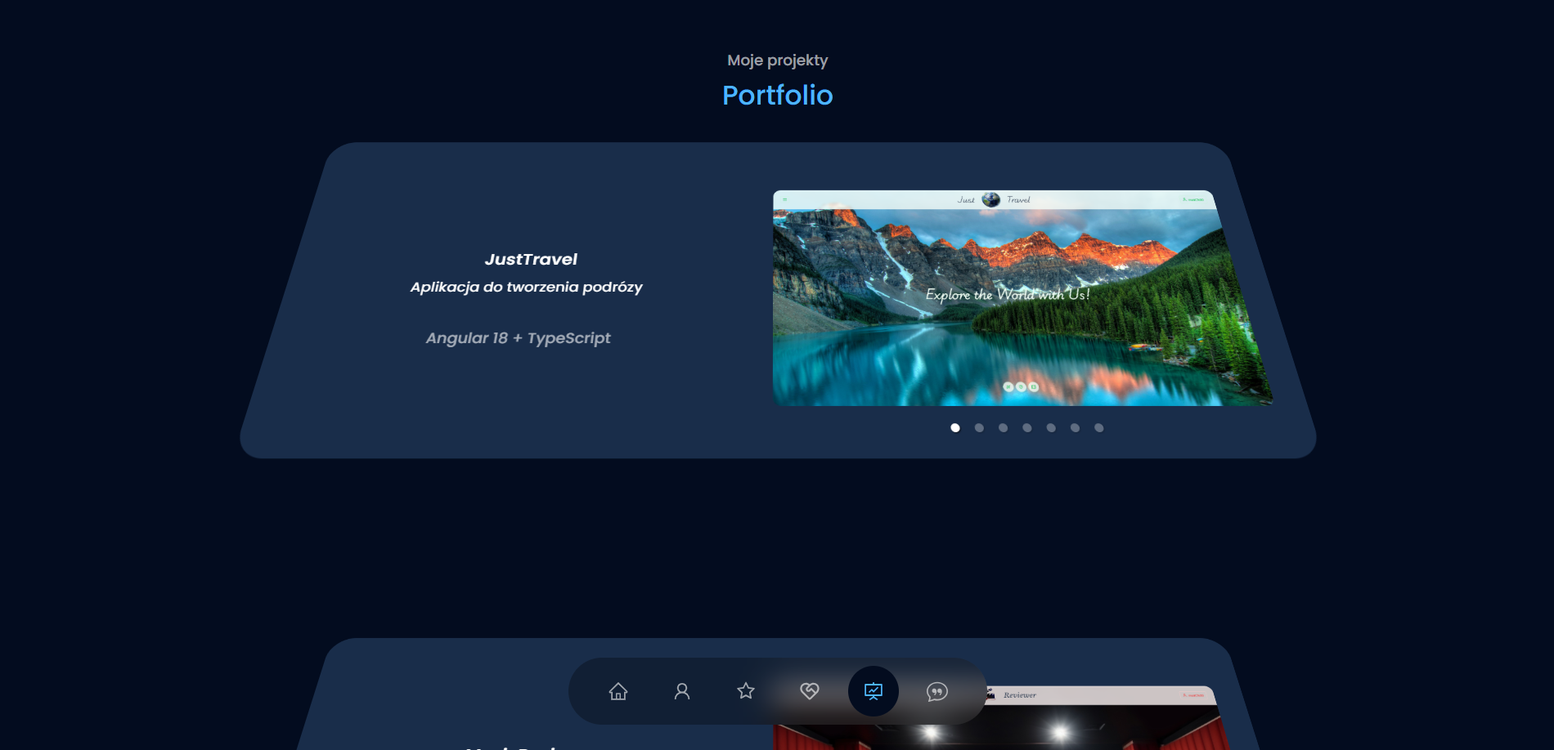
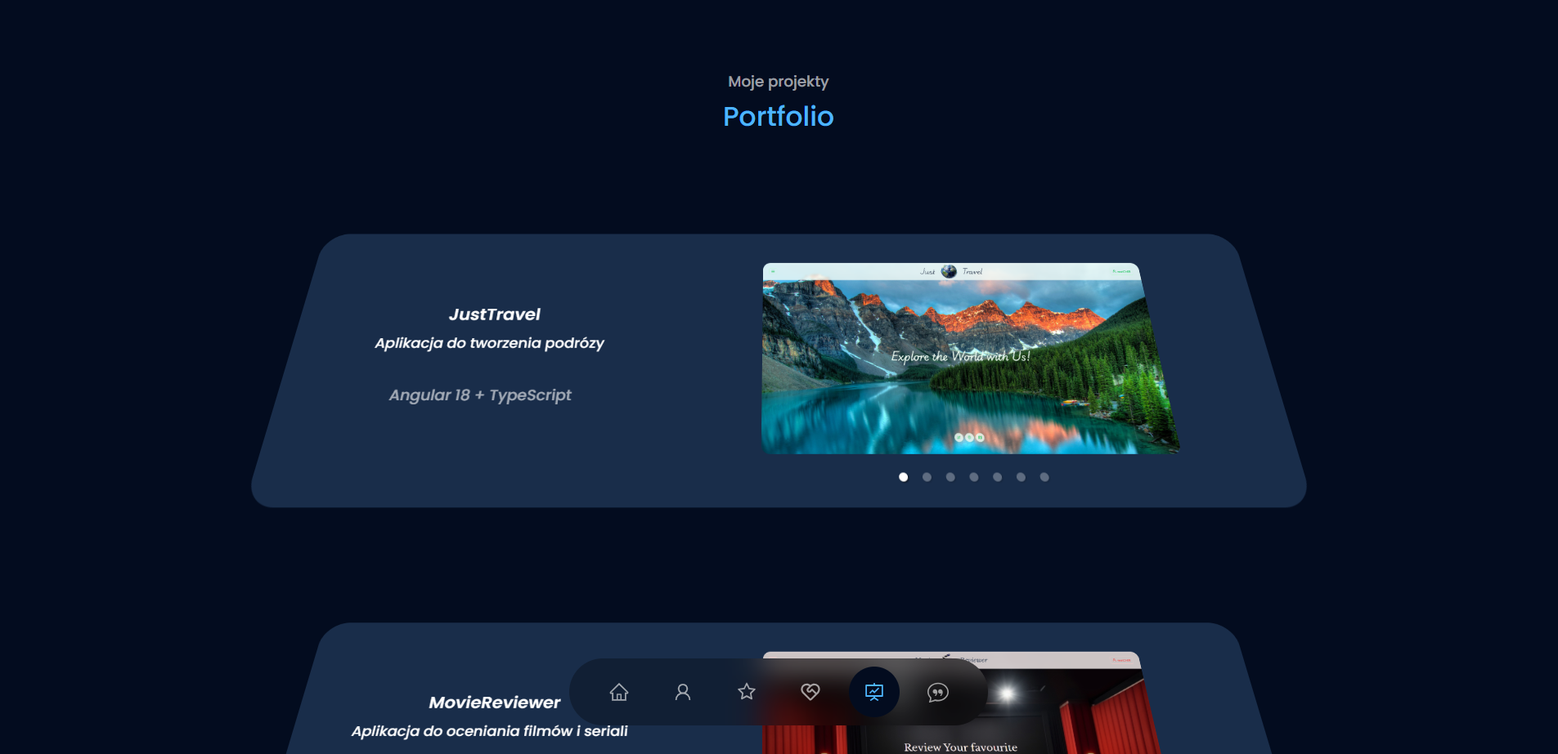
small changes, auto deploy

Changed region(s): [[0.1553, 0.061, 0.8695, 0.671], [0.1863, 0.8235, 0.8384, 1.0], [0.2484, 0.5185, 0.3726, 0.549]]

diff --git a/docs/v1/static/css/main.663a6278.css b/docs/v1/static/css/main.663a6278.css
@@ -1,0 +1,2 @@
+@import url(https://fonts.googleapis.com/css2?family=Poppins:wght@300;400;500;600&display=swap);:root{--color-bg:#030c1f;--color-bg-variant:#192d4a;--color-primary:#4db5ff;--color-primary-variant:#4db5ff66;--color-secondary:#4db5ff0d;--color-white:#fff;--color-light:#fff9;--container-width-lg:75%;--container-width-md:85%;--container-width-sm:90%;--transition:all 400ms ease;--ff:"Poppins",sans-serif;--fw:500}*,:after,:before{border:0;box-sizing:border-box;list-style:none;margin:0;outline:0;padding:0;text-decoration:none}html{scroll-behavior:smooth}::-webkit-scrollbar{display:none}body{-webkit-font-smoothing:antialiased;-moz-osx-font-smoothing:grayscale;background:#030c1f;background:var(--color-bg);color:#fff;color:var(--color-white);font-family:Poppins,sans-serif;font-family:var(--ff);font-weight:500;font-weight:var(--fw);line-height:1.7}a,button,input,select,textarea{-webkit-tap-highlight-color:transparent}h1,h2,h3,h4,h5{font-weight:500}header{min-height:100vh}section>h2{color:var(--color-primary);margin-bottom:3rem;text-align:center}section>h5{color:var(--color-light);text-align:center}.text-light{color:var(--color-light)!important}a{color:var(--color-primary);transition:var(--transition)}a:hover{color:var(--color-white)}.button{border:1px solid var(--color-primary);border-radius:.4rem;color:var(--color-primary);cursor:pointer;display:inline-block;padding:.7em 1.2em;transition:var(--transition);white-space:nowrap}.button:hover{background:var(--color-white);border-color:#0000;color:var(--color-bg)}.button-primary{background:var(--color-primary);color:var(--color-bg)}img{display:block;object-fit:cover;width:100%}.container{margin:0 auto;width:var(--container-width-lg)}section{font-size:1.1rem;padding:3em 0 12em}@media (max-width:1200px){section{padding:2em 0 18em}}@media (max-width:992px){.container{width:var(--container-width-md)}section{padding:2em 0 12em}}@media (max-width:768px){section{padding:2em 0 6em}}@media (max-width:576px){.container{width:var(--container-width-sm)}section{padding:1em 0 2em}}@property --rotate{syntax:"<angle>";initial-value:150deg;inherits:false}@keyframes spin{0%{--rotate:0deg}to{--rotate:360deg}}.header-content h4{color:var(--color-primary)}.me-img{border-radius:1.5rem;overflow:hidden;transform:rotate(-3deg);transition:var(--transition);width:100%}.me-img:hover{transform:rotate(0)}.me:after{animation:spin 2.5s linear infinite;background-image:linear-gradient(var(--rotate),#4db5ff,#fff9 43%,#4db5ff66);content:"";filter:blur(3.5vw);filter:blur(calc(var(--portrait-height)/8));height:100%;opacity:1;position:absolute;transform:scale(.9);transition:opacity .7s;width:100%;z-index:-1}:root{--portrait-width:calc(var(--portrait-height)/1.5);--portrait-height:28vw}header{align-items:center;display:flex;justify-content:center;overflow:hidden;padding:3rem 0 12rem}.header-container{grid-gap:3rem;display:grid;font-size:1.3rem;gap:3rem;grid-template-columns:1fr 1fr}.header-container,.header-content{align-items:center;position:relative;text-align:center;width:100%}.header-content{display:flex;flex-direction:column;margin-top:15vh}.me{align-items:center;display:flex;justify-content:center;margin:0 auto 2rem;max-width:400px;position:relative;width:80%}@media (max-width:992px){.container{width:var(--container-width-md)}.me{margin:0 auto 3rem;max-width:350px;width:50vw}}@media (max-width:768px){.header-container{grid-template-columns:1fr}.header-content{margin-top:5vh;width:100%}}@media (max-width:576px){:root{--portrait-height:60vw}header{padding:5rem 0 2rem}.me{margin:0 auto 1.5rem;max-width:300px;width:60vw}}.actions{display:flex;gap:1.5rem;justify-content:center;margin-top:2.5rem}.socials{align-items:center;display:flex;flex-direction:column;gap:1rem;position:absolute;right:4vw;top:0}.socials a{font-size:1.4em}@media (max-width:768px){.socials{display:none}}.about-container{align-items:center;display:flex;flex-direction:column}.about-container p{color:var(--color-light);margin:2rem;text-align:center}.about-card{background:var(--color-bg-variant);border:1px solid #0000;border-radius:1rem;padding:2rem;text-align:center;transition:var(--transition)}.about-card:hover{background:#0000;border-color:var(--color-primary-variant);cursor:default}.about-card h5{font-size:.9rem;margin-bottom:1rem}.about-card small{color:var(--color-light);font-size:.7rem}.about-icon{color:var(--color-primary);font-size:1.4rem;margin-bottom:1rem}.technologies{font-size:1.3rem}.about-cards{grid-gap:3rem;display:grid;gap:3rem;grid-template-columns:repeat(3,1fr);width:80%}@media (max-width:1200px){.about-cards{width:95%}}@media (max-width:992px){.about-cards{gap:2rem}}@media (max-width:768px){.about-cards{gap:3rem;grid-template-columns:repeat(1,1fr);width:20rem}}@media (max-width:576px){.about-cards{gap:2rem;width:15rem}}.experience-container>div h3{color:var(--color-primary);margin-bottom:2rem;text-align:center;white-space:nowrap}.experience-details{break-inside:avoid-column;display:flex;font-size:.9rem;gap:.5rem;margin-bottom:1rem}.experience-details-icon{color:var(--color-primary);margin-top:6px;min-width:1rem!important}.experience-container{grid-gap:2rem;display:grid;gap:2rem;grid-template-columns:1fr 1fr 1fr}.experience-container>div{background:var(--color-bg-variant);border:1px solid #0000;border-radius:2rem;margin:0;padding:2rem;transition:var(--transition);width:100%}.experience-container>div:hover{background:#0000;border-color:var(--color-primary-variant);cursor:default}.experience-content{align-items:center;display:flex;flex-direction:column}@media (max-width:992px){.experience-container{grid-template-columns:1fr}.experience-container>div{margin:0 auto;width:50%}}@media (max-width:768px){.experience-container>div{padding:1rem;width:70%}.experience-content{columns:10rem;padding:0 1rem}}@media (max-width:576px){.experience-container{gap:1rem}.experience-container>div{width:90%}.experience-content{columns:12rem}}.service{background:var(--color-bg-variant);border:1px solid var(--color-primary);border-radius:3rem 0 3rem 0;transition:var(--transition)}.service:hover{background:#0000;border-color:var(--color-primary);cursor:default}.service-head{background:var(--color-primary);border-radius:3rem 0 3rem 0;box-shadow:0 2rem 1rem #0000001a;padding:1.5rem}.service-head h3{color:var(--color-bg);font-size:1.1rem;text-align:center}.service-list{align-items:center;display:flex;flex-direction:column;padding:2rem}.service-list li{display:flex;gap:1rem;margin-bottom:.8rem}.service-list-icon{color:var(--color-primary);margin-top:2px;min-width:1rem}.service-list p{font-size:.9rem}.services-container{grid-gap:3rem;display:grid;gap:3rem;grid-template-columns:repeat(3,1fr)}@media (max-width:992px){.services-container{gap:2rem;grid-template-columns:1fr 1fr}.services-container>.service:nth-child(3){grid-column:1/span 2}}@media (max-width:576px){.services-container{gap:1rem;grid-template-columns:1fr}.services-container>.service:nth-child(3){grid-column:auto}}.carousel{align-items:center;display:flex;justify-content:center}.carousel.carousel-slider{display:flex;justify-content:center;padding:0 0 3rem}.carousel.carousel-slider .control-arrow{display:none}.carousel .control-dots .dot{height:.6rem!important;width:.6rem!important}.portfolio-item-desktop{display:flex;flex-direction:column}.portfolio-item h3{text-align:center}.portfolio-item h4{color:var(--color-light);text-align:center}.portfolio-image-container{border-radius:.6rem;margin:0 3rem}.portfolio-image{-webkit-tap-highlight-color:transparent;-webkit-touch-callout:none;border-radius:.6rem;right:0;-webkit-user-select:none;user-select:none}.portfolio-carousel-mobile{width:15rem}.portfolio-carousel-desktop{width:35rem}.portfolio-container{grid-gap:3rem;display:grid;gap:3rem;grid-template-columns:1fr}.portfolio-item{align-items:center;background:var(--color-bg-variant);border:1px solid #0000;border-radius:2rem;display:grid;grid-template-columns:40% 60%;padding:2.5rem 2.5rem .5rem;transform:perspective(750px) translateZ(-100px) rotateX(25deg) scaleX(.95);transition:var(--transition)}.portfolio-item:hover{background:var(--color-secondary);border-color:var(--color-primary-variant);transform:translate3d(0,40px,-120px)}.portfolio-description{align-items:center;display:flex;flex-direction:column;gap:2rem;justify-content:center;margin-top:-3rem;width:90%}@media (max-width:1200px){.portfolio-carousel-desktop{width:30rem}}@media (max-width:992px){.portfolio-carousel-mobile{width:15rem}.portfolio-item{display:flex;flex-direction:column}.portfolio-description{margin-bottom:2rem;margin-top:0}}@media (max-width:768px){.portfolio-carousel-mobile{width:40vw}.portfolio-carousel-desktop{width:60vw}}.carousel .control-arrow,.carousel.carousel-slider .control-arrow{background:none;border:0;cursor:pointer;filter:alpha(opacity=40);font-size:32px;opacity:.4;position:absolute;top:20px;transition:all .25s ease-in;z-index:2}.carousel .control-arrow:focus,.carousel .control-arrow:hover{filter:alpha(opacity=100);opacity:1}.carousel .control-arrow:before,.carousel.carousel-slider .control-arrow:before{border-bottom:8px solid #0000;border-top:8px solid #0000;content:"";display:inline-block;margin:0 5px}.carousel .control-disabled.control-arrow{cursor:inherit;display:none;filter:alpha(opacity=0);opacity:0}.carousel .control-prev.control-arrow{left:0}.carousel .control-prev.control-arrow:before{border-right:8px solid #fff}.carousel .control-next.control-arrow{right:0}.carousel .control-next.control-arrow:before{border-left:8px solid #fff}.carousel-root{outline:none}.carousel{position:relative;width:100%}.carousel *{box-sizing:border-box}.carousel img{display:inline-block;pointer-events:none;width:100%}.carousel .carousel{position:relative}.carousel .control-arrow{background:none;border:0;font-size:18px;margin-top:-13px;outline:0;top:50%}.carousel .thumbs-wrapper{margin:20px;overflow:hidden}.carousel .thumbs{list-style:none;position:relative;transform:translateZ(0);transition:all .15s ease-in;white-space:nowrap}.carousel .thumb{border:3px solid #fff;display:inline-block;margin-right:6px;overflow:hidden;padding:2px;transition:border .15s ease-in;white-space:nowrap}.carousel .thumb:focus{border:3px solid #ccc;outline:none}.carousel .thumb.selected,.carousel .thumb:hover{border:3px solid #333}.carousel .thumb img{vertical-align:top}.carousel.carousel-slider{margin:0;overflow:hidden;position:relative}.carousel.carousel-slider .control-arrow{bottom:0;color:#fff;font-size:26px;margin-top:0;padding:5px;top:0}.carousel.carousel-slider .control-arrow:hover{background:#0003}.carousel .slider-wrapper{margin:auto;overflow:hidden;transition:height .15s ease-in;width:100%}.carousel .slider-wrapper.axis-horizontal .slider{-ms-box-orient:horizontal;display:-moz-flex;display:flex}.carousel .slider-wrapper.axis-horizontal .slider .slide{flex-direction:column;flex-flow:column}.carousel .slider-wrapper.axis-vertical{-ms-box-orient:horizontal;display:-moz-flex;display:flex}.carousel .slider-wrapper.axis-vertical .slider{flex-direction:column}.carousel .slider{list-style:none;margin:0;padding:0;position:relative;width:100%}.carousel .slider.animated{transition:all .35s ease-in-out}.carousel .slide{margin:0;min-width:100%;position:relative;text-align:center}.carousel .slide img{border:0;vertical-align:top;width:100%}.carousel .slide iframe{border:0;display:inline-block;margin:0 40px 40px;width:calc(100% - 80px)}.carousel .slide .legend{background:#000;border-radius:10px;bottom:40px;color:#fff;font-size:12px;left:50%;margin-left:-45%;opacity:.25;padding:10px;position:absolute;text-align:center;transition:all .5s ease-in-out;transition:opacity .35s ease-in-out;width:90%}.carousel .control-dots{bottom:0;margin:10px 0;padding:0;position:absolute;text-align:center;width:100%;z-index:1}@media (min-width:960px){.carousel .control-dots{bottom:0}}.carousel .control-dots .dot{background:#fff;border-radius:50%;box-shadow:1px 1px 2px #000000e6;cursor:pointer;display:inline-block;filter:alpha(opacity=30);height:8px;margin:0 8px;opacity:.3;transition:opacity .25s ease-in;width:8px}.carousel .control-dots .dot.selected,.carousel .control-dots .dot:hover{filter:alpha(opacity=100);opacity:1}.carousel .carousel-status{color:#fff;font-size:10px;padding:5px;position:absolute;right:0;text-shadow:1px 1px 1px #000000e6;top:0}.carousel:hover .slide .legend{opacity:1}.contact-container{display:flex;justify-content:center;width:80%}.contact-option a{display:inline-block;font-size:.8rem;margin-top:.5rem}.contact-option-icon{font-size:1.5rem;margin-bottom:.5rem}.contact-options{grid-gap:6rem;display:grid;gap:6rem;grid-template-columns:1fr 1fr;width:auto}.contact-option{background:var(--color-bg-variant);border:1px solid #0000;border-radius:1rem;display:block;margin-bottom:0;padding:2rem;text-align:center;transition:var(--transition);width:auto}.contact-option:hover{background:#0000;border-color:var(--color-primary-variant)}@media (max-width:768px){.contact-options{gap:2rem}}@media (max-width:576px){.contact-options{gap:2rem;grid-template-columns:1fr;width:var(--container-width-sm)}.contact-option{display:table;margin-bottom:2em;width:100%}}nav{-webkit-backdrop-filter:blur(15px);backdrop-filter:blur(15px);background-color:#0000004d;border-radius:3rem;bottom:2rem;display:flex;gap:.8rem;left:50%;padding:.5rem 1.5rem;position:fixed;transform:translateX(-50%);z-index:2}nav a.active{background:var(--color-bg);color:var(--color-primary)}nav a{background:#0000;border-radius:50%;color:var(--color-light);display:flex;font-size:1.3rem;padding:.9rem}nav a:hover{background:#0000004d}@media (max-width:576px){nav a{font-size:clamp(1.1rem,.4rem + 4vw,3rem);padding:clamp(.4em,.2em + 2vw,1.5em)}}footer{background:var(--color-primary);font-size:.9rem;margin-top:7rem;padding:3rem 0;text-align:center}footer a{color:var(--color-bg)}.footer-logo{display:block;font-size:2rem;font-weight:500;margin-bottom:2rem}.footer-socials a{background:var(--color-bg);border:1px solid #0000;border-radius:.7rem;color:var(--color-white);display:flex;font-size:2rem;padding:.8rem}.footer-socials a:hover{background:#0000;border-color:var(--color-bg);color:var(--color-bg)}.permalinks{flex-wrap:wrap;gap:2rem;margin:0 auto 3rem}.footer-socials,.permalinks{display:flex;justify-content:center}.footer-socials{gap:1rem;margin-bottom:3rem}.footer-copyright{color:var(--color-bg);margin-bottom:4rem}@media (max-width:768px){.footer-socials{margin-bottom:1rem}}@media (max-width:576px){.permalinks{flex-direction:column;gap:1.5rem}.footer-socials{margin-bottom:2rem}.footer-copyright{padding-bottom:4rem}}
+/*# sourceMappingURL=main.663a6278.css.map*/

diff --git a/gui (React 18) v1/build/static/css/main.663a6278.css b/gui (React 18) v1/build/static/css/main.663a6278.css
@@ -1,0 +1,2 @@
+@import url(https://fonts.googleapis.com/css2?family=Poppins:wght@300;400;500;600&display=swap);:root{--color-bg:#030c1f;--color-bg-variant:#192d4a;--color-primary:#4db5ff;--color-primary-variant:#4db5ff66;--color-secondary:#4db5ff0d;--color-white:#fff;--color-light:#fff9;--container-width-lg:75%;--container-width-md:85%;--container-width-sm:90%;--transition:all 400ms ease;--ff:"Poppins",sans-serif;--fw:500}*,:after,:before{border:0;box-sizing:border-box;list-style:none;margin:0;outline:0;padding:0;text-decoration:none}html{scroll-behavior:smooth}::-webkit-scrollbar{display:none}body{-webkit-font-smoothing:antialiased;-moz-osx-font-smoothing:grayscale;background:#030c1f;background:var(--color-bg);color:#fff;color:var(--color-white);font-family:Poppins,sans-serif;font-family:var(--ff);font-weight:500;font-weight:var(--fw);line-height:1.7}a,button,input,select,textarea{-webkit-tap-highlight-color:transparent}h1,h2,h3,h4,h5{font-weight:500}header{min-height:100vh}section>h2{color:var(--color-primary);margin-bottom:3rem;text-align:center}section>h5{color:var(--color-light);text-align:center}.text-light{color:var(--color-light)!important}a{color:var(--color-primary);transition:var(--transition)}a:hover{color:var(--color-white)}.button{border:1px solid var(--color-primary);border-radius:.4rem;color:var(--color-primary);cursor:pointer;display:inline-block;padding:.7em 1.2em;transition:var(--transition);white-space:nowrap}.button:hover{background:var(--color-white);border-color:#0000;color:var(--color-bg)}.button-primary{background:var(--color-primary);color:var(--color-bg)}img{display:block;object-fit:cover;width:100%}.container{margin:0 auto;width:var(--container-width-lg)}section{font-size:1.1rem;padding:3em 0 12em}@media (max-width:1200px){section{padding:2em 0 18em}}@media (max-width:992px){.container{width:var(--container-width-md)}section{padding:2em 0 12em}}@media (max-width:768px){section{padding:2em 0 6em}}@media (max-width:576px){.container{width:var(--container-width-sm)}section{padding:1em 0 2em}}@property --rotate{syntax:"<angle>";initial-value:150deg;inherits:false}@keyframes spin{0%{--rotate:0deg}to{--rotate:360deg}}.header-content h4{color:var(--color-primary)}.me-img{border-radius:1.5rem;overflow:hidden;transform:rotate(-3deg);transition:var(--transition);width:100%}.me-img:hover{transform:rotate(0)}.me:after{animation:spin 2.5s linear infinite;background-image:linear-gradient(var(--rotate),#4db5ff,#fff9 43%,#4db5ff66);content:"";filter:blur(3.5vw);filter:blur(calc(var(--portrait-height)/8));height:100%;opacity:1;position:absolute;transform:scale(.9);transition:opacity .7s;width:100%;z-index:-1}:root{--portrait-width:calc(var(--portrait-height)/1.5);--portrait-height:28vw}header{align-items:center;display:flex;justify-content:center;overflow:hidden;padding:3rem 0 12rem}.header-container{grid-gap:3rem;display:grid;font-size:1.3rem;gap:3rem;grid-template-columns:1fr 1fr}.header-container,.header-content{align-items:center;position:relative;text-align:center;width:100%}.header-content{display:flex;flex-direction:column;margin-top:15vh}.me{align-items:center;display:flex;justify-content:center;margin:0 auto 2rem;max-width:400px;position:relative;width:80%}@media (max-width:992px){.container{width:var(--container-width-md)}.me{margin:0 auto 3rem;max-width:350px;width:50vw}}@media (max-width:768px){.header-container{grid-template-columns:1fr}.header-content{margin-top:5vh;width:100%}}@media (max-width:576px){:root{--portrait-height:60vw}header{padding:5rem 0 2rem}.me{margin:0 auto 1.5rem;max-width:300px;width:60vw}}.actions{display:flex;gap:1.5rem;justify-content:center;margin-top:2.5rem}.socials{align-items:center;display:flex;flex-direction:column;gap:1rem;position:absolute;right:4vw;top:0}.socials a{font-size:1.4em}@media (max-width:768px){.socials{display:none}}.about-container{align-items:center;display:flex;flex-direction:column}.about-container p{color:var(--color-light);margin:2rem;text-align:center}.about-card{background:var(--color-bg-variant);border:1px solid #0000;border-radius:1rem;padding:2rem;text-align:center;transition:var(--transition)}.about-card:hover{background:#0000;border-color:var(--color-primary-variant);cursor:default}.about-card h5{font-size:.9rem;margin-bottom:1rem}.about-card small{color:var(--color-light);font-size:.7rem}.about-icon{color:var(--color-primary);font-size:1.4rem;margin-bottom:1rem}.technologies{font-size:1.3rem}.about-cards{grid-gap:3rem;display:grid;gap:3rem;grid-template-columns:repeat(3,1fr);width:80%}@media (max-width:1200px){.about-cards{width:95%}}@media (max-width:992px){.about-cards{gap:2rem}}@media (max-width:768px){.about-cards{gap:3rem;grid-template-columns:repeat(1,1fr);width:20rem}}@media (max-width:576px){.about-cards{gap:2rem;width:15rem}}.experience-container>div h3{color:var(--color-primary);margin-bottom:2rem;text-align:center;white-space:nowrap}.experience-details{break-inside:avoid-column;display:flex;font-size:.9rem;gap:.5rem;margin-bottom:1rem}.experience-details-icon{color:var(--color-primary);margin-top:6px;min-width:1rem!important}.experience-container{grid-gap:2rem;display:grid;gap:2rem;grid-template-columns:1fr 1fr 1fr}.experience-container>div{background:var(--color-bg-variant);border:1px solid #0000;border-radius:2rem;margin:0;padding:2rem;transition:var(--transition);width:100%}.experience-container>div:hover{background:#0000;border-color:var(--color-primary-variant);cursor:default}.experience-content{align-items:center;display:flex;flex-direction:column}@media (max-width:992px){.experience-container{grid-template-columns:1fr}.experience-container>div{margin:0 auto;width:50%}}@media (max-width:768px){.experience-container>div{padding:1rem;width:70%}.experience-content{columns:10rem;padding:0 1rem}}@media (max-width:576px){.experience-container{gap:1rem}.experience-container>div{width:90%}.experience-content{columns:12rem}}.service{background:var(--color-bg-variant);border:1px solid var(--color-primary);border-radius:3rem 0 3rem 0;transition:var(--transition)}.service:hover{background:#0000;border-color:var(--color-primary);cursor:default}.service-head{background:var(--color-primary);border-radius:3rem 0 3rem 0;box-shadow:0 2rem 1rem #0000001a;padding:1.5rem}.service-head h3{color:var(--color-bg);font-size:1.1rem;text-align:center}.service-list{align-items:center;display:flex;flex-direction:column;padding:2rem}.service-list li{display:flex;gap:1rem;margin-bottom:.8rem}.service-list-icon{color:var(--color-primary);margin-top:2px;min-width:1rem}.service-list p{font-size:.9rem}.services-container{grid-gap:3rem;display:grid;gap:3rem;grid-template-columns:repeat(3,1fr)}@media (max-width:992px){.services-container{gap:2rem;grid-template-columns:1fr 1fr}.services-container>.service:nth-child(3){grid-column:1/span 2}}@media (max-width:576px){.services-container{gap:1rem;grid-template-columns:1fr}.services-container>.service:nth-child(3){grid-column:auto}}.carousel{align-items:center;display:flex;justify-content:center}.carousel.carousel-slider{display:flex;justify-content:center;padding:0 0 3rem}.carousel.carousel-slider .control-arrow{display:none}.carousel .control-dots .dot{height:.6rem!important;width:.6rem!important}.portfolio-item-desktop{display:flex;flex-direction:column}.portfolio-item h3{text-align:center}.portfolio-item h4{color:var(--color-light);text-align:center}.portfolio-image-container{border-radius:.6rem;margin:0 3rem}.portfolio-image{-webkit-tap-highlight-color:transparent;-webkit-touch-callout:none;border-radius:.6rem;right:0;-webkit-user-select:none;user-select:none}.portfolio-carousel-mobile{width:15rem}.portfolio-carousel-desktop{width:35rem}.portfolio-container{grid-gap:3rem;display:grid;gap:3rem;grid-template-columns:1fr}.portfolio-item{align-items:center;background:var(--color-bg-variant);border:1px solid #0000;border-radius:2rem;display:grid;grid-template-columns:40% 60%;padding:2.5rem 2.5rem .5rem;transform:perspective(750px) translateZ(-100px) rotateX(25deg) scaleX(.95);transition:var(--transition)}.portfolio-item:hover{background:var(--color-secondary);border-color:var(--color-primary-variant);transform:translate3d(0,40px,-120px)}.portfolio-description{align-items:center;display:flex;flex-direction:column;gap:2rem;justify-content:center;margin-top:-3rem;width:90%}@media (max-width:1200px){.portfolio-carousel-desktop{width:30rem}}@media (max-width:992px){.portfolio-carousel-mobile{width:15rem}.portfolio-item{display:flex;flex-direction:column}.portfolio-description{margin-bottom:2rem;margin-top:0}}@media (max-width:768px){.portfolio-carousel-mobile{width:40vw}.portfolio-carousel-desktop{width:60vw}}.carousel .control-arrow,.carousel.carousel-slider .control-arrow{background:none;border:0;cursor:pointer;filter:alpha(opacity=40);font-size:32px;opacity:.4;position:absolute;top:20px;transition:all .25s ease-in;z-index:2}.carousel .control-arrow:focus,.carousel .control-arrow:hover{filter:alpha(opacity=100);opacity:1}.carousel .control-arrow:before,.carousel.carousel-slider .control-arrow:before{border-bottom:8px solid #0000;border-top:8px solid #0000;content:"";display:inline-block;margin:0 5px}.carousel .control-disabled.control-arrow{cursor:inherit;display:none;filter:alpha(opacity=0);opacity:0}.carousel .control-prev.control-arrow{left:0}.carousel .control-prev.control-arrow:before{border-right:8px solid #fff}.carousel .control-next.control-arrow{right:0}.carousel .control-next.control-arrow:before{border-left:8px solid #fff}.carousel-root{outline:none}.carousel{position:relative;width:100%}.carousel *{box-sizing:border-box}.carousel img{display:inline-block;pointer-events:none;width:100%}.carousel .carousel{position:relative}.carousel .control-arrow{background:none;border:0;font-size:18px;margin-top:-13px;outline:0;top:50%}.carousel .thumbs-wrapper{margin:20px;overflow:hidden}.carousel .thumbs{list-style:none;position:relative;transform:translateZ(0);transition:all .15s ease-in;white-space:nowrap}.carousel .thumb{border:3px solid #fff;display:inline-block;margin-right:6px;overflow:hidden;padding:2px;transition:border .15s ease-in;white-space:nowrap}.carousel .thumb:focus{border:3px solid #ccc;outline:none}.carousel .thumb.selected,.carousel .thumb:hover{border:3px solid #333}.carousel .thumb img{vertical-align:top}.carousel.carousel-slider{margin:0;overflow:hidden;position:relative}.carousel.carousel-slider .control-arrow{bottom:0;color:#fff;font-size:26px;margin-top:0;padding:5px;top:0}.carousel.carousel-slider .control-arrow:hover{background:#0003}.carousel .slider-wrapper{margin:auto;overflow:hidden;transition:height .15s ease-in;width:100%}.carousel .slider-wrapper.axis-horizontal .slider{-ms-box-orient:horizontal;display:-moz-flex;display:flex}.carousel .slider-wrapper.axis-horizontal .slider .slide{flex-direction:column;flex-flow:column}.carousel .slider-wrapper.axis-vertical{-ms-box-orient:horizontal;display:-moz-flex;display:flex}.carousel .slider-wrapper.axis-vertical .slider{flex-direction:column}.carousel .slider{list-style:none;margin:0;padding:0;position:relative;width:100%}.carousel .slider.animated{transition:all .35s ease-in-out}.carousel .slide{margin:0;min-width:100%;position:relative;text-align:center}.carousel .slide img{border:0;vertical-align:top;width:100%}.carousel .slide iframe{border:0;display:inline-block;margin:0 40px 40px;width:calc(100% - 80px)}.carousel .slide .legend{background:#000;border-radius:10px;bottom:40px;color:#fff;font-size:12px;left:50%;margin-left:-45%;opacity:.25;padding:10px;position:absolute;text-align:center;transition:all .5s ease-in-out;transition:opacity .35s ease-in-out;width:90%}.carousel .control-dots{bottom:0;margin:10px 0;padding:0;position:absolute;text-align:center;width:100%;z-index:1}@media (min-width:960px){.carousel .control-dots{bottom:0}}.carousel .control-dots .dot{background:#fff;border-radius:50%;box-shadow:1px 1px 2px #000000e6;cursor:pointer;display:inline-block;filter:alpha(opacity=30);height:8px;margin:0 8px;opacity:.3;transition:opacity .25s ease-in;width:8px}.carousel .control-dots .dot.selected,.carousel .control-dots .dot:hover{filter:alpha(opacity=100);opacity:1}.carousel .carousel-status{color:#fff;font-size:10px;padding:5px;position:absolute;right:0;text-shadow:1px 1px 1px #000000e6;top:0}.carousel:hover .slide .legend{opacity:1}.contact-container{display:flex;justify-content:center;width:80%}.contact-option a{display:inline-block;font-size:.8rem;margin-top:.5rem}.contact-option-icon{font-size:1.5rem;margin-bottom:.5rem}.contact-options{grid-gap:6rem;display:grid;gap:6rem;grid-template-columns:1fr 1fr;width:auto}.contact-option{background:var(--color-bg-variant);border:1px solid #0000;border-radius:1rem;display:block;margin-bottom:0;padding:2rem;text-align:center;transition:var(--transition);width:auto}.contact-option:hover{background:#0000;border-color:var(--color-primary-variant)}@media (max-width:768px){.contact-options{gap:2rem}}@media (max-width:576px){.contact-options{gap:2rem;grid-template-columns:1fr;width:var(--container-width-sm)}.contact-option{display:table;margin-bottom:2em;width:100%}}nav{-webkit-backdrop-filter:blur(15px);backdrop-filter:blur(15px);background-color:#0000004d;border-radius:3rem;bottom:2rem;display:flex;gap:.8rem;left:50%;padding:.5rem 1.5rem;position:fixed;transform:translateX(-50%);z-index:2}nav a.active{background:var(--color-bg);color:var(--color-primary)}nav a{background:#0000;border-radius:50%;color:var(--color-light);display:flex;font-size:1.3rem;padding:.9rem}nav a:hover{background:#0000004d}@media (max-width:576px){nav a{font-size:clamp(1.1rem,.4rem + 4vw,3rem);padding:clamp(.4em,.2em + 2vw,1.5em)}}footer{background:var(--color-primary);font-size:.9rem;margin-top:7rem;padding:3rem 0;text-align:center}footer a{color:var(--color-bg)}.footer-logo{display:block;font-size:2rem;font-weight:500;margin-bottom:2rem}.footer-socials a{background:var(--color-bg);border:1px solid #0000;border-radius:.7rem;color:var(--color-white);display:flex;font-size:2rem;padding:.8rem}.footer-socials a:hover{background:#0000;border-color:var(--color-bg);color:var(--color-bg)}.permalinks{flex-wrap:wrap;gap:2rem;margin:0 auto 3rem}.footer-socials,.permalinks{display:flex;justify-content:center}.footer-socials{gap:1rem;margin-bottom:3rem}.footer-copyright{color:var(--color-bg);margin-bottom:4rem}@media (max-width:768px){.footer-socials{margin-bottom:1rem}}@media (max-width:576px){.permalinks{flex-direction:column;gap:1.5rem}.footer-socials{margin-bottom:2rem}.footer-copyright{padding-bottom:4rem}}
+/*# sourceMappingURL=main.663a6278.css.map*/

diff --git a/gui (React 18) v1/src/sections/portfolio/portfolio.css b/gui (React 18) v1/src/sections/portfolio/portfolio.css
@@ -55,7 +55,7 @@
 /* RESPONSIVE STYLES */
 
 .portfolio-carousel-mobile {
-  width: 20rem;
+  width: 15rem;
 }
 
 .portfolio-carousel-desktop {
@@ -73,20 +73,19 @@
   grid-template-columns: 40% 60%;
   align-items: center;
 
-  margin-top: 2rem;
   padding: 2.5rem 2.5rem 0.5rem 2.5rem;
   background: var(--color-bg-variant);
   border: 1px solid transparent;
   border-radius: 2rem;
 
   transition: var(--transition);
-  transform: perspective(750px) translate3d(0px, -100px, -100px) rotateX(25deg) scale(0.95, 1);
+  transform: perspective(750px) translate3d(0px, 0px, -100px) rotateX(25deg) scale(0.95, 1);
 }
 
 .portfolio-item:hover {
-  transform: translate3d(0px, 0px, -200px);
   background: var(--color-secondary);
   border-color: var(--color-primary-variant);
+  transform: translate3d(0px, 40px, -120px);
 }
 
 .portfolio-description {
@@ -107,11 +106,7 @@
 
 @media (max-width: 992px) {
   .portfolio-carousel-mobile {
-    width: 20rem;
-  }
-
-  .portfolio-carousel-desktop {
-    width: 30rem;
+    width: 15rem;
   }
 
   .portfolio-item {
@@ -127,28 +122,14 @@
 
 @media (max-width: 768px) {
   .portfolio-carousel-mobile {
-    width: 50vw;
+    width: 40vw;
   }
 
   .portfolio-carousel-desktop {
     width: 60vw;
-  }
-
-  .portfolio-item {
-    transform: perspective(750px) translate3d(0px, 0px, -150px) rotateX(20deg) scale(0.95, 1);
-  }
-
-  .portfolio-item:hover {
-    transform: perspective(750px) translate3d(0px, 0px, -150px) rotateX(20deg) scale(0.95, 1);
   }
 }
 
 @media (max-width: 576px) {
-  .portfolio-carousel-mobile {
-    width: 50vw;
-  }
 
-  .portfolio-carousel-desktop {
-    width: 60vw;
-  }
 }

diff --git a/docs/v1/index.html b/docs/v1/index.html
@@ -1,1 +1,1 @@
-<!doctype html><html lang="en"><head><base href="/Portfolio/v1/"/><meta charset="UTF-8"/><title>Mateusz Chalik's portfolio</title><link rel="shortcut icon" href="icon.png" type="image/png/ico"/><meta name="viewport" content="width=device-width,initial-scale=1"/><script defer="defer" src="/Portfolio/v1/static/js/main.03a5f818.js"></script><link href="/Portfolio/v1/static/css/main.8bd27061.css" rel="stylesheet"></head><body><div id="root"></div></body></html>
+<!doctype html><html lang="en"><head><base href="/Portfolio/v1/"/><meta charset="UTF-8"/><title>Mateusz Chalik's portfolio</title><link rel="shortcut icon" href="icon.png" type="image/png/ico"/><meta name="viewport" content="width=device-width,initial-scale=1"/><script defer="defer" src="/Portfolio/v1/static/js/main.03a5f818.js"></script><link href="/Portfolio/v1/static/css/main.663a6278.css" rel="stylesheet"></head><body><div id="root"></div></body></html>

diff --git a/gui (React 18) v1/build/index.html b/gui (React 18) v1/build/index.html
@@ -1,1 +1,1 @@
-<!doctype html><html lang="en"><head><base href="/Portfolio/v1/"/><meta charset="UTF-8"/><title>Mateusz Chalik's portfolio</title><link rel="shortcut icon" href="icon.png" type="image/png/ico"/><meta name="viewport" content="width=device-width,initial-scale=1"/><script defer="defer" src="/Portfolio/v1/static/js/main.03a5f818.js"></script><link href="/Portfolio/v1/static/css/main.8bd27061.css" rel="stylesheet"></head><body><div id="root"></div></body></html>
+<!doctype html><html lang="en"><head><base href="/Portfolio/v1/"/><meta charset="UTF-8"/><title>Mateusz Chalik's portfolio</title><link rel="shortcut icon" href="icon.png" type="image/png/ico"/><meta name="viewport" content="width=device-width,initial-scale=1"/><script defer="defer" src="/Portfolio/v1/static/js/main.03a5f818.js"></script><link href="/Portfolio/v1/static/css/main.663a6278.css" rel="stylesheet"></head><body><div id="root"></div></body></html>

diff --git a/gui (React 18) v1/src/sections/services/services.css b/gui (React 18) v1/src/sections/services/services.css
@@ -15,7 +15,7 @@
 
 .service-head {
   background: var(--color-primary);
-  padding: 2rem;
+  padding: 1.5rem;
   border-radius: 3rem 0 3rem 0;
   box-shadow: 0 2rem 1rem rgba(0, 0, 0, 0.1);
 }
@@ -23,6 +23,7 @@
 .service-head h3 {
   color: var(--color-bg);
   text-align: center;
+  font-size: 1.1rem;
 }
 
 .service-list {
